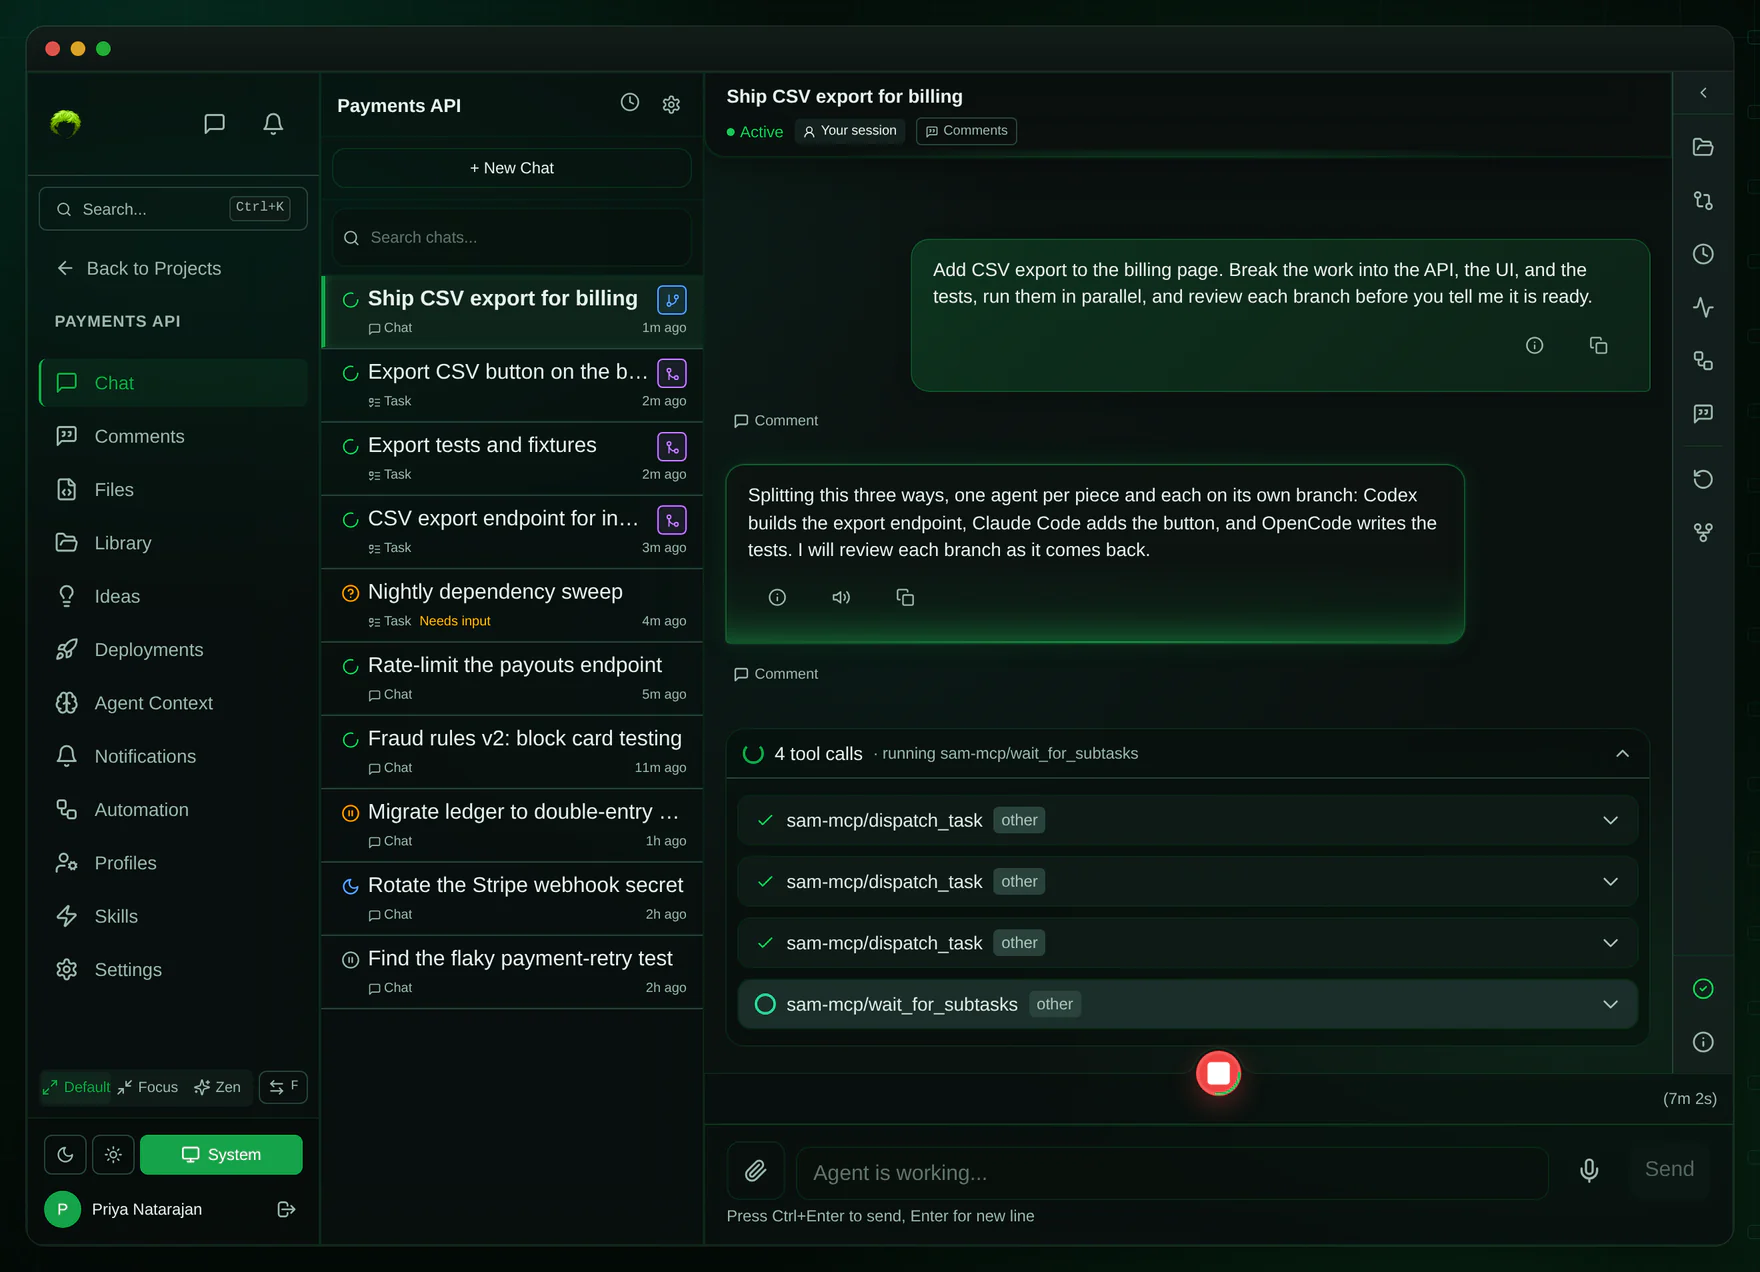
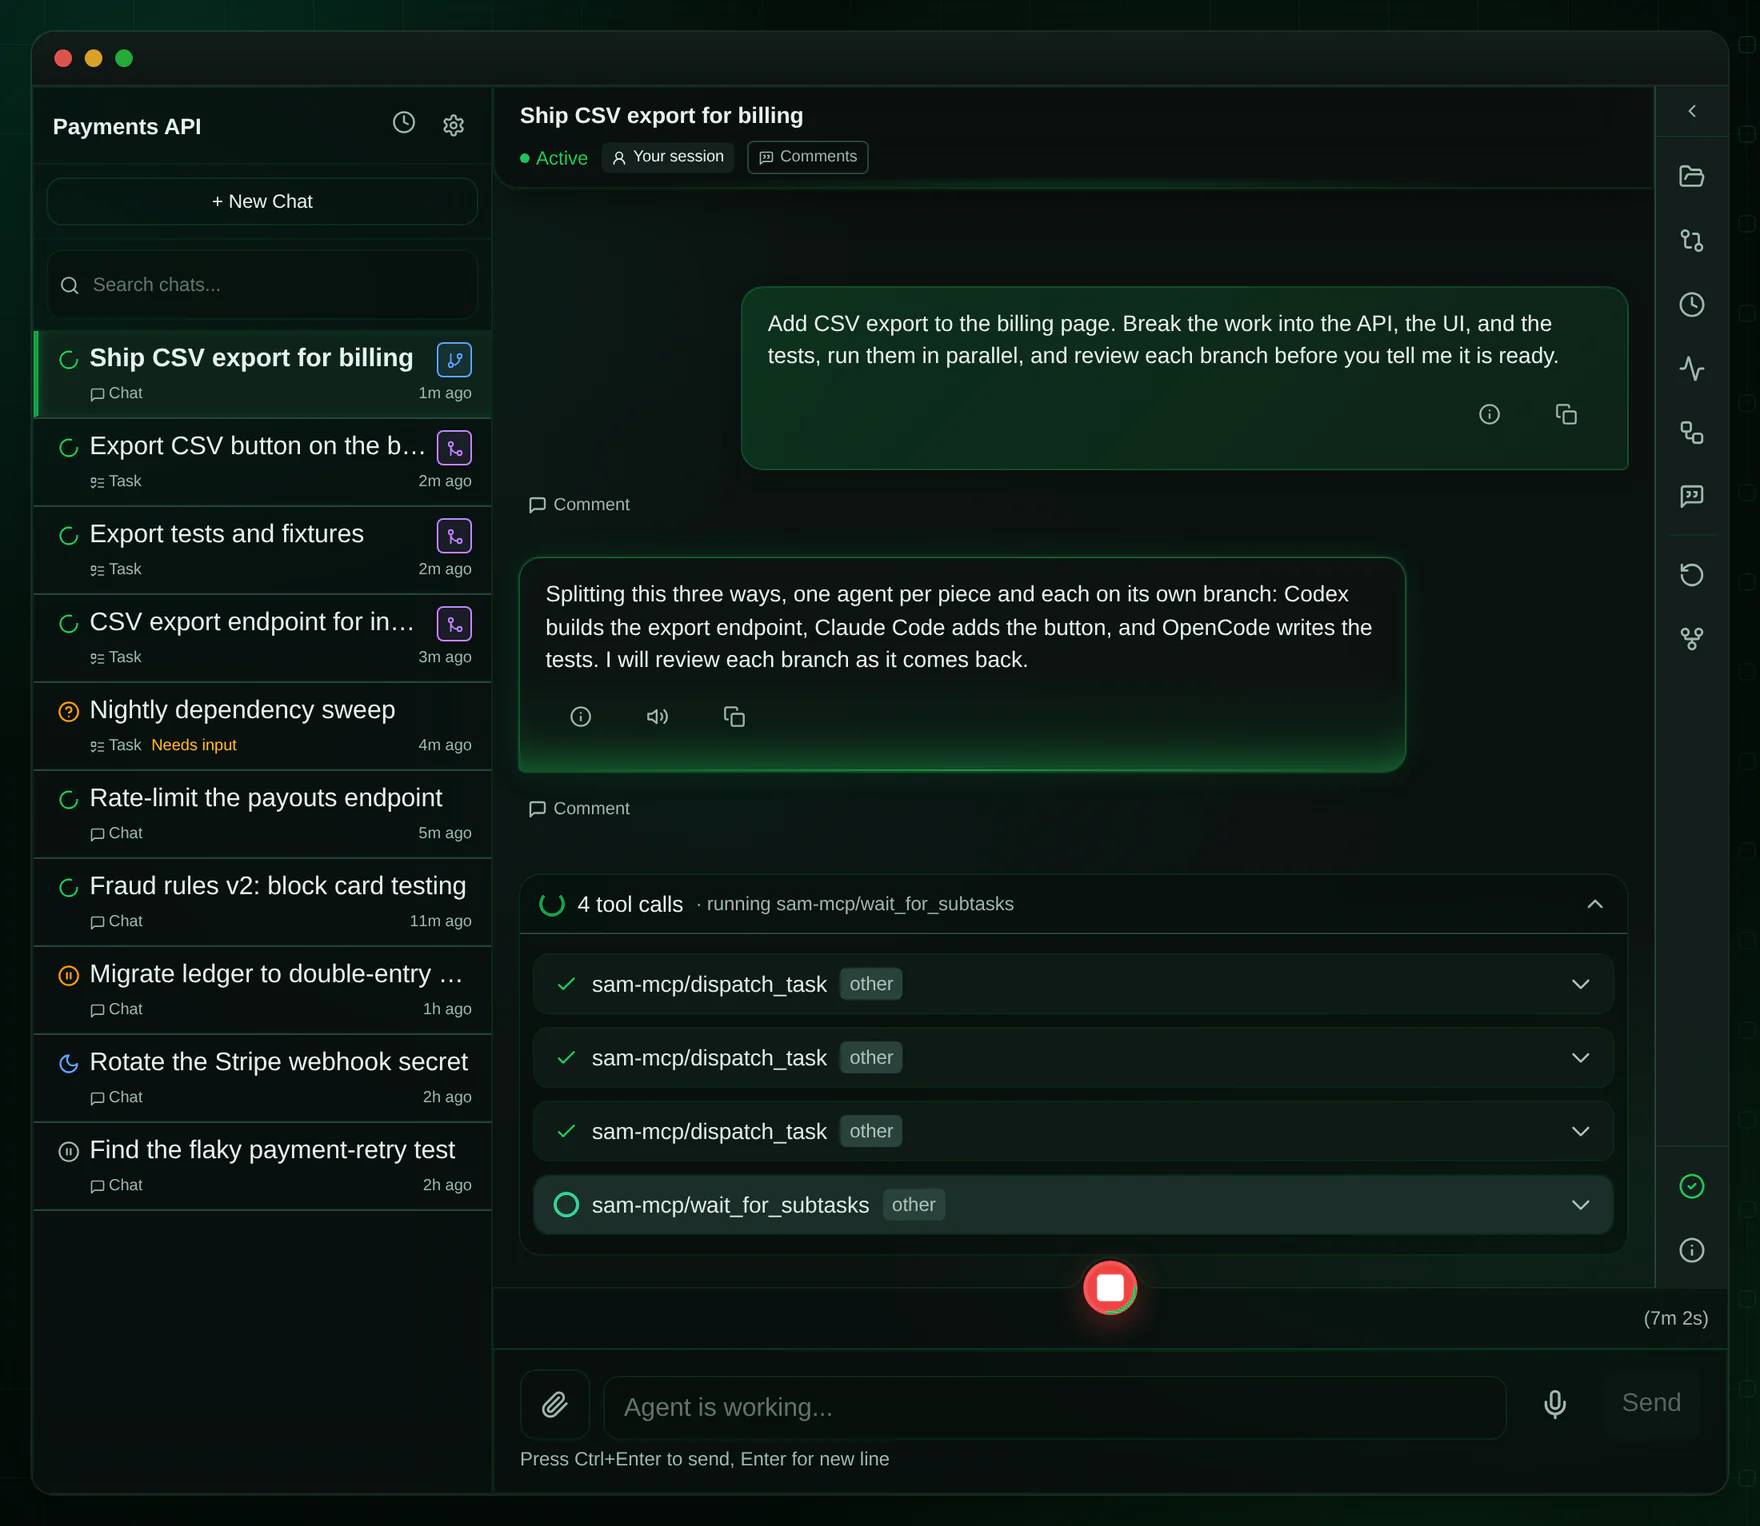
docs(readme): sharper hero, phone-friendly sections (draft 3)
Apply the second review: crop the global nav from the hero so the
fleet list and dispatch calls stay readable at README width and
caption it, replace the three-phone montage and the half-width image
row with one phone screen and one VM card, turn the tool table into a
list that reads on phones, and narrow comment, workflow, and timing
wording to what the product does.

diff --git a/README.md b/README.md
@@ -27,7 +27,7 @@
 <p align="center">
   <img src="assets/images/readme/hero.webp" alt="A SAM project chat. A lead agent has split one request across three helper agents with dispatch_task and is waiting for them. The chat list shows the three helpers running, and another agent marked Needs input." width="880" />
   <br />
-  <sub>The real SAM interface with a sample project.</sub>
+  <sub>A lead agent splits one request across helpers on Codex, Claude Code, and OpenCode. The real SAM interface with sample data.</sub>
 </p>
 
 ## Built for more than a few agents
@@ -37,7 +37,7 @@ Running a few agents in terminal tabs works until your laptop becomes the bottle
 SAM moves the fleet off your laptop.
 
 - **A workspace for every task.** On VMs in your cloud account, each agent gets its own dev container, built from your repo's `.devcontainer` by default, with Docker, git, and its own branch. Several agents share a VM when they fit, and idle VMs shut down. For quick jobs, Instant sessions start in seconds on Cloudflare Containers, with no VM provider needed.
-- **Agents that run agents.** An agent can start helpers, send them instructions, wait for them, and stop them. Give a lead agent a big job and it splits the work, hands out the pieces, and reviews what comes back.
+- **Agents that run agents.** An agent can start helpers, send them instructions, wait for them, and stop them. Ask a lead agent to split a job, hand out the pieces, and review what comes back.
 - **The agents you already use.** Claude Code, Codex, Gemini CLI, Mistral Vibe, OpenCode, and Amp, side by side in one project. Save an agent, model, and effort level as a profile and pick one per task, so Claude Code can plan while Codex writes the code. Use API keys or your Claude and ChatGPT subscriptions.
 - **Everything visible, from anywhere.** Every message and tool call streams into the project chat and stays there. The chat list shows which agents are working, finished, or waiting on you. Turn on push notifications to hear when a task finishes or an agent asks for your input.
 - **Work that starts without you.** Schedules, GitHub events, and webhooks start agents: a nightly dependency sweep, a pass over every new issue, a first look at every production alert.
@@ -49,7 +49,7 @@ Give one agent the whole job:
 
 > Add CSV export to the billing page. Break the work into the API, the UI, and the tests, run them in parallel, and review each branch before you tell me it is ready.
 
-That is the conversation in the screenshot above. The lead agent starts three helpers, each in its own workspace on its own branch. Half an hour later two of them are done, and the lead has found a bug in the third and sent it back:
+That is the conversation at the top of this page. The lead agent starts three helpers, each in its own workspace on its own branch. In this example, two helpers have finished, and the lead found a bug in the third and sent it back:
 
 <p align="center">
   <img src="assets/images/readme/review-loop.webp" alt="The lead agent reports that two helpers finished with PR 512 and PR 514, that the UI branch formats amounts wrongly for yen, and that it asked that helper for a fix. Below are its calls to get_session_messages, send_message_to_subtask, and wait_for_subtasks." width="764" />
@@ -57,20 +57,18 @@ That is the conversation in the screenshot above. The lead agent starts three he
 
 The lead does this with tools SAM gives its agents:
 
-| Tool                             | What the agent does with it                                                      |
-| -------------------------------- | -------------------------------------------------------------------------------- |
-| `dispatch_task`                  | Start a helper with a brief, a profile, and a branch                             |
-| `send_message_to_subtask`        | Send a running helper new instructions                                           |
-| `get_session_messages`           | Read a helper's conversation                                                     |
-| `wait_for_subtasks`              | Pause until its helpers finish or a deadline passes. SAM wakes it, so no polling |
-| `stop_subtask` / `retry_subtask` | Stop or retry a helper it started                                                |
-| `start_workflow_run`             | Hand SAM a plan of steps that depend on each other                               |
+- `dispatch_task` starts a helper with a brief, a profile, and a branch.
+- `send_message_to_subtask` sends a running helper new instructions.
+- `get_session_messages` reads a helper's conversation.
+- `wait_for_subtasks` pauses the lead until its helpers finish or a deadline passes. SAM wakes it up, so it never polls.
+- `stop_subtask` and `retry_subtask` stop or retry a helper it started.
+- `start_workflow_run` hands SAM a plan of steps that depend on each other.
 
 Agents in the same project can message each other, so a helper can report back or ask the lead a question. Your deployment's settings cap how deep and how wide agents can fan out.
 
 ### Plans with dependencies
 
-For work in stages, an agent can hand SAM a workflow, such as "draft the release notes, have two agents review them at the same time, then apply both reviews". SAM starts each agent step once the steps before it finish, can wait for an event like a CI result between steps, and shows everyone in the project how the plan is going.
+For work in stages, an agent can hand SAM a workflow, such as "draft the release notes, have two agents review them at the same time, then apply both reviews". SAM starts each agent step once the steps it depends on finish, can wait for an event like a CI result between steps, and shows everyone in the project how the plan is going.
 
 <p align="center">
   <img src="assets/images/readme/workflow.webp" alt="A workflow graph: a draft step done by Claude Code, then two review steps at the same time, one running on Codex and one done, then two waiting steps." width="880" />
@@ -78,30 +76,23 @@ For work in stages, an agent can hand SAM a workflow, such as "draft the release
 
 ## Your fleet from your phone
 
-SAM works as well on a phone as at a desk. See which agents are working, finished, or waiting on you, answer the one that has a question, and follow a workflow step by step.
+On your phone, see which agents are working, finished, or waiting on you, and answer the one that has a question. Here, the nightly dependency agent wants a decision before it takes on a major upgrade:
 
 <p align="center">
-  <img src="assets/images/readme/phones.webp" alt="Three phone screens: the chat list with helpers running and one agent marked Needs input; that agent asking whether to upgrade a dependency to a new major version, with Send answer and Decline buttons; and a workflow's steps with two reviews running at the same time." width="880" />
+  <img src="assets/images/readme/phone-question.webp" alt="SAM on a phone: the nightly dependency sweep agent asks whether to upgrade stripe to a new major version, with a recommended answer selected and Send answer and Decline buttons." width="340" />
 </p>
 
-## Machines you own, work that starts itself
+## On machines you own
 
-<table>
-  <tr>
-    <td width="50%" valign="top">
-      <img src="assets/images/readme/node-card.webp" alt="A Hetzner VM in Falkenstein running three agent workspaces, with its size, monthly price, and CPU, memory, and disk use." />
-    </td>
-    <td width="50%" valign="top">
-      <img src="assets/images/readme/automation.webp" alt="The Automation page: two schedules and two automations triggered by a webhook and by GitHub comments, each written as when this happens, start a chat with a chosen agent." />
-    </td>
-  </tr>
-  <tr>
-    <td valign="top"><b>Your VMs, packed.</b> Several agents share a VM when there is room. See each machine's provider, size, price, and load.</td>
-    <td valign="top"><b>Automation.</b> Start agents on a schedule, from GitHub events, or from any webhook.</td>
-  </tr>
-</table>
+Every VM shows its provider, size, price, and load, and the agents running on it. Create VMs yourself, or let SAM create them as agents need them.
 
-Sessions sleep when they go idle and wake when you reply, with the full history kept. Teammates can follow each other's agents, comment on any message, and share a chat for a set time. SAM tells every new session to load the project's knowledge and rules first. See [what's in SAM](https://simple-agent-manager.org/docs/overview/).
+<p align="center">
+  <img src="assets/images/readme/node-card.webp" alt="A Hetzner VM in Falkenstein running three agent workspaces, with its size, monthly price, and CPU, memory, and disk use." width="460" />
+</p>
+
+## Teams and long-running work
+
+Sessions sleep when they go idle and wake when you reply, with the conversation kept. Teammates can follow each other's agents, comment on an agent's reply, and share a chat for a set time. SAM tells every new session to load the project's knowledge and rules first. See [what's in SAM](https://simple-agent-manager.org/docs/overview/).
 
 ## How it works
 
@@ -112,7 +103,7 @@ Sessions sleep when they go idle and wake when you reply, with the full history 
 | **Workspaces**    | One dev container per task, with the agent, your repo, and Docker | Your repo's `.devcontainer`, or a fast prebuilt image |
 | **Instant**       | Containers for quick work when you don't need a VM                | Cloudflare Containers                                 |
 
-The control plane runs on Cloudflare Workers, so there is no control-plane VM to maintain. VMs are created when agents need them and shut down after they sit idle. Read the [architecture overview](https://simple-agent-manager.org/docs/architecture/overview/) for the details.
+The control plane runs on Cloudflare Workers, so there is no control-plane VM to maintain. Read the [architecture overview](https://simple-agent-manager.org/docs/architecture/overview/) for the details.
 
 ## Deploy your own
 
@@ -137,6 +128,7 @@ See the [local development guide](https://simple-agent-manager.org/docs/guides/l
 - [Docs](https://simple-agent-manager.org/docs/): agents, workflows, automation, and teams
 - [Self-hosting guide](https://simple-agent-manager.org/docs/guides/self-hosting/): deploy your own instance
 - [Security model](https://simple-agent-manager.org/docs/architecture/security/): how credentials are encrypted and isolated
+- [How SAM compares](https://simple-agent-manager.org/#comparison): with vendor cloud agents and self-hosted dev environments
 - [Blog](https://simple-agent-manager.org/blog/): what we are building and why
 
 ## License
